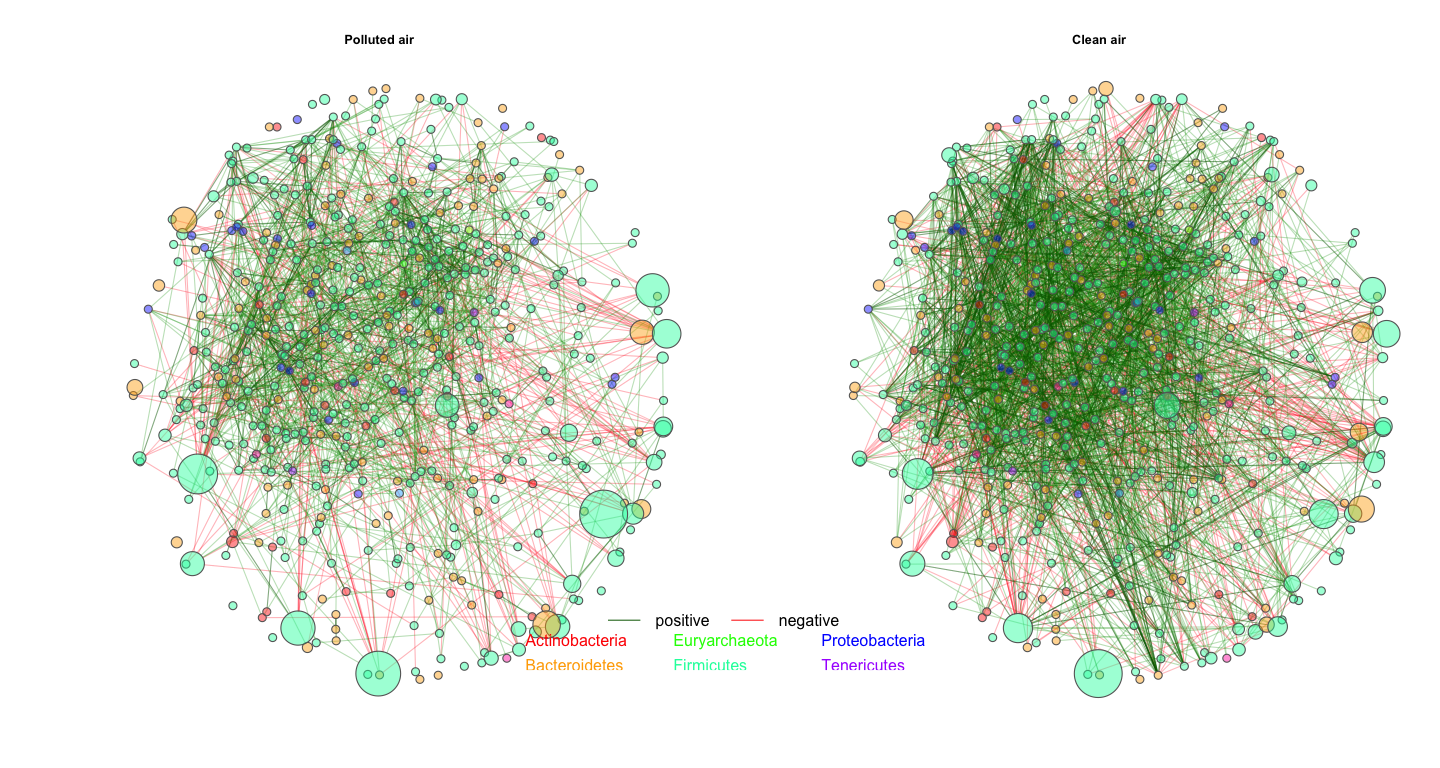
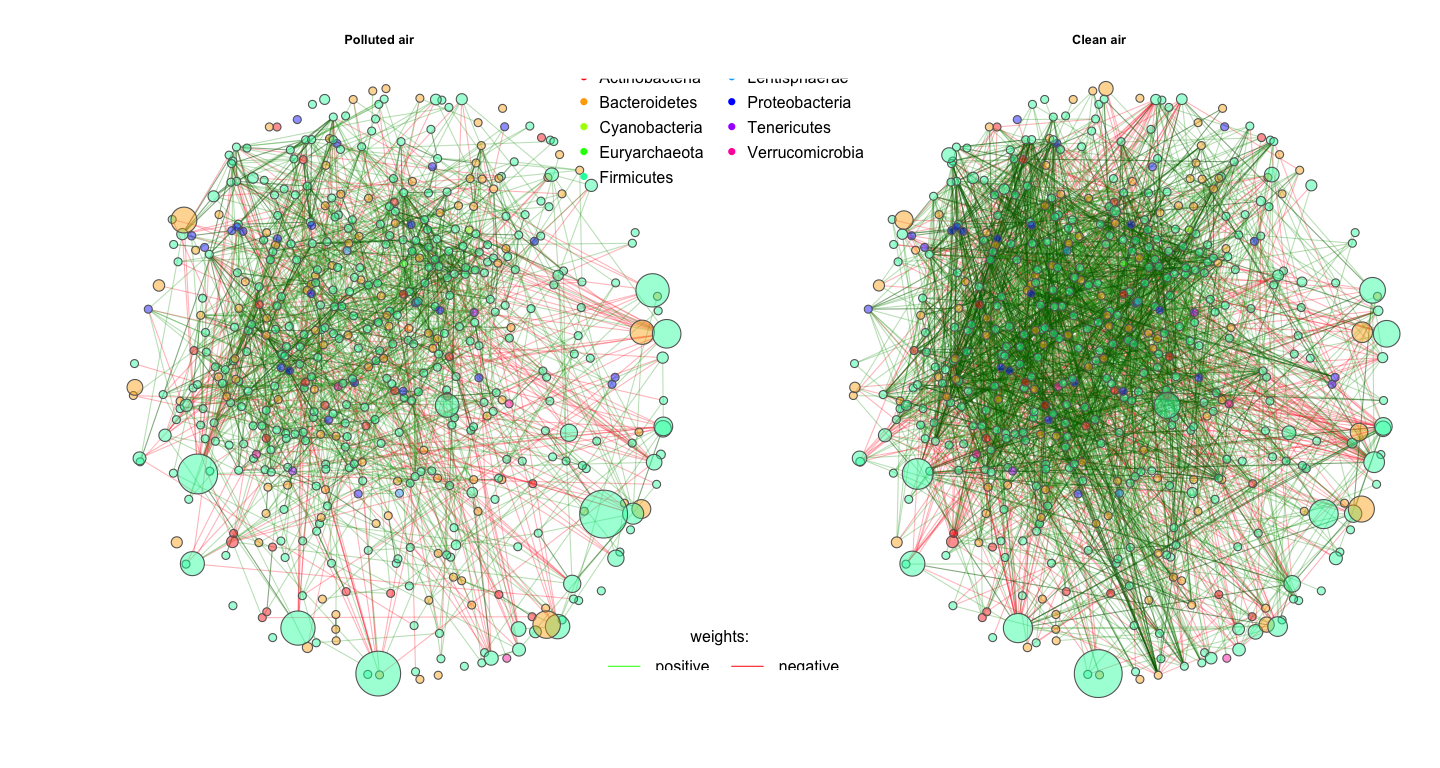
adj. color networks

Changed region(s): [[0.4062, 0.0938, 0.5938, 0.25], [0.4688, 0.7812, 0.6562, 0.875], [0.375, 0.8125, 0.4375, 0.875]]

diff --git a/5_networks/5.2_Networks_viz.md b/5_networks/5.2_Networks_viz.md
@@ -57,30 +57,55 @@ plot(props_W,
      nodeSizeSpread = 1, cexNodes = 5, cexTitle = .8,
      edgeTranspLow = 70, edgeTranspHigh = 50,
      mar = c(3,5,3,2), groupNames = c("Polluted air", "Clean air"))
+legend("top", 
+       inset = .035, title = "phylum:",
+       legend=levels(phyl_ps_prune), ncol = 2,
+       col=phylcol, pt.bg = phylcol, bty = "n", pch=16) 
 legend("bottom", 
-       inset = c(0,.07),
-       legend=levels(phyl_ps_prune), ncol = 3,
-       col=phylcol, bty="n", text.col = phylcol) 
-legend("bottom", 
-       inset = c(0,.16),
+       inset = .1, title = "weights:",
        legend=c("positive","negative"), lty = 1,
-       col=c("darkgreen","red"), bty="n", horiz = TRUE) 
+       col=c("green","red"), bty="n", horiz = TRUE) 
 ```
 
 ![](5.2_Networks_viz_files/figure-gfm/unnamed-chunk-4-1.png)<!-- -->
 
-## Modularity
-
-### Vizualisation
+## Network properties
 
 ``` r
-nclust <- max(as.numeric(names(table(props_W$clustering$clust1))))+1
-col <- polychrome(nclust)
-names(col) <- 1:nclust
+summary(props_W)[[1]]
+```
 
-clusters <- as.factor(c(props_W$clustering$clust1,props_W$clustering$clust2))
-col_assign <- col[clusters]
-names(col_assign) <- names(clusters)
+    ##                       group '1' group '2'
+    ## average path length     2.66168   2.35685
+    ## clustering coeff.       0.17593   0.17301
+    ## modularity              0.52144   0.43566
+    ## edge density            0.01222   0.01680
+    ## vertex connectivity     0.00000   0.00000
+    ## edge connectivity       0.00000   0.00000
+
+### Modularity (clusters/modules)
+
+``` r
+summary(props_W)[[2]]
+```
+
+    ## [[1]]
+    ##                                            
+    ## name:  0  1  2  3  4  5  6  7 8  9 10 11 12
+    ## freq: 26 62 94 86 55 25 45 98 4 12  3  2  3
+    ## 
+    ## [[2]]
+    ##                                  
+    ## name:  0  1  2  3   4   5  6  7 8
+    ## freq: 10 65 68 76 113 104 30 47 2
+
+#### Vizualisation
+
+``` r
+nclust_1 <- max(as.numeric(names(table(props_W$clustering$clust1))))+1
+nclust_2 <- max(as.numeric(names(table(props_W$clustering$clust2))))+1
+nclust <- nclust_1 + nclust_2
+col <- sample(polychrome(nclust))
 
 # which(tax_table(ps_prune)[,"Genus"] == "Blautia")
 # tax_table(ps_prune)[which(tax_table(ps_prune)[,"Genus"] == "Bacteroides"),]
@@ -90,13 +115,14 @@ shapeVec <- rep(1, ncol(otu_table(ps_prune)))
 shapeVec[248] <- 2
 names(shapeVec) <- names(phyl_ps_prune)
 
-plot(props_W,
+plot_cluster <- plot(props_W,
      layout = FA_coord,
      sameLayout = TRUE, layoutGroup = 1, 
      labels = list(props_W$clustering$clust1, props_W$clustering$clust2), 
      labelFont = 1, cexLabels = 2,
      nodeColor = "cluster",
      colorVec = col,
+     sameColThresh = 20,
      nodeTransp = 40, 
      borderCol = "gray40", highlightHubs = FALSE,
      nodeSize = "fix", cexNodes = 3, 
@@ -106,9 +132,9 @@ plot(props_W,
      groupNames = c("Polluted air", "Clean air"))
 ```
 
-![](5.2_Networks_viz_files/figure-gfm/unnamed-chunk-5-1.png)<!-- -->
+![](5.2_Networks_viz_files/figure-gfm/unnamed-chunk-7-1.png)<!-- -->
 
-### Shared nodes among modules
+#### Shared nodes among modules
 
 ``` r
 dat_graph <- data.frame(id = names(props_W$clustering$clust1), 
@@ -154,38 +180,39 @@ legend(x=-2.5, y=-1.1, c("W = 0 (Polluted)", "W = 1 (Clean)"), pch=21,
        col="#777777", pt.bg=c("#66B0FF","#1CFFCE"), pt.cex=2, cex=.8, bty="n", ncol=1)
 
 legend(x=.1, y=-.9, legend=legend_cats$size_text, pt.cex=legend_cats$size_circle/11, bty="n", cex = .8,
-       col="#777777", pch=21, pt.bg="lightgray", ncol = 2, y.intersp = 1.7, x.intersp = 1.5, 
+       col="#777777", pch=21, pt.bg="lightgray", ncol = 2, y.intersp = 1.5, x.intersp = 1.5, 
        title = "Module size (nb. of nodes):")
 ```
 
-![](5.2_Networks_viz_files/figure-gfm/unnamed-chunk-6-1.png)<!-- -->
+![](5.2_Networks_viz_files/figure-gfm/unnamed-chunk-8-1.png)<!-- -->
 
-### Module 7 split
+#### Module 7 split
 
 ``` r
-names_clust <- as.character(names(which(props_W$clustering$clust1 == 7)))
-labels_phyl <- substr(as.character(phyl_ps_prune[names_clust]), 1, 3)
+names_clust <- as.character(names(which(props_W$clustering$clust1 == 1)))
+# labels_phyl <- substr(as.character(phyl_ps_prune[names_clust]), 1, 3)
+col_module <- unique(plot_cluster$q1$Arguments$color[names_clust],
+                     plot_cluster$q2$Arguments$color[names_clust])
 
 plot(props_W, 
-     # layout = FA_coord,
      sameLayout = TRUE, layoutGroup = 1, 
-     labels = labels_phyl, 
+     labels = list(props_W$clustering$clust1[names_clust], props_W$clustering$clust2[names_clust]), 
      labelFont = 1, cexLabels = 1.5,
-     featVecCol = phyl_ps_prune[names_clust], 
      nodeColor = "cluster",
-     colorVec = col,
+     colorVec =  col_module,
+     sameClustCol = FALSE,
      nodeTransp = 40, 
      borderCol = "gray40", highlightHubs = FALSE,
      nodeSize = "fix", cexNodes = 1, 
      nodeFilter = "names",
      nodeShape = c("circle", "triangle"),
-     featVecShape = shapeVec,
+     featVecShape = shapeVec[names_clust],
      nodeFilterPar = names_clust,
      edgeTranspLow = 80, edgeTranspHigh = 50,
      groupNames = c("Polluted air", "Clean air"))
 ```
 
-![](5.2_Networks_viz_files/figure-gfm/unnamed-chunk-7-1.png)<!-- -->
+![](5.2_Networks_viz_files/figure-gfm/unnamed-chunk-9-1.png)<!-- -->
 
 ### Correlation structure of module 7
 
@@ -203,4 +230,4 @@ corrplot(cor_1, method = "color", tl.col = "grey", mar=c(0,0,5,0),
          col = col1(100), title = "Clean air")
 ```
 
-![](5.2_Networks_viz_files/figure-gfm/unnamed-chunk-8-1.png)<!-- -->
+![](5.2_Networks_viz_files/figure-gfm/unnamed-chunk-10-1.png)<!-- -->
